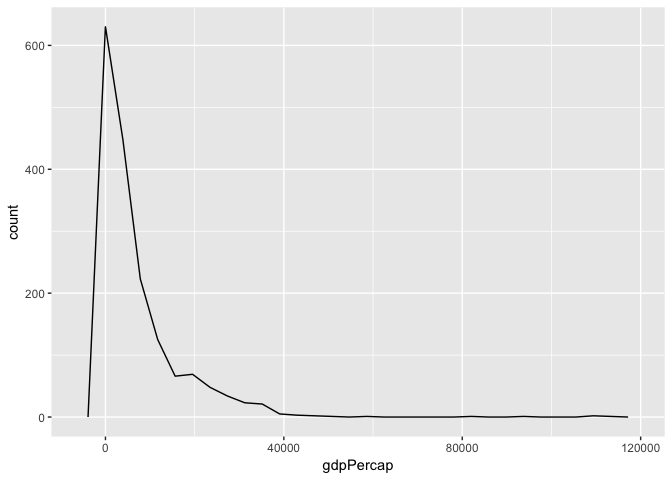
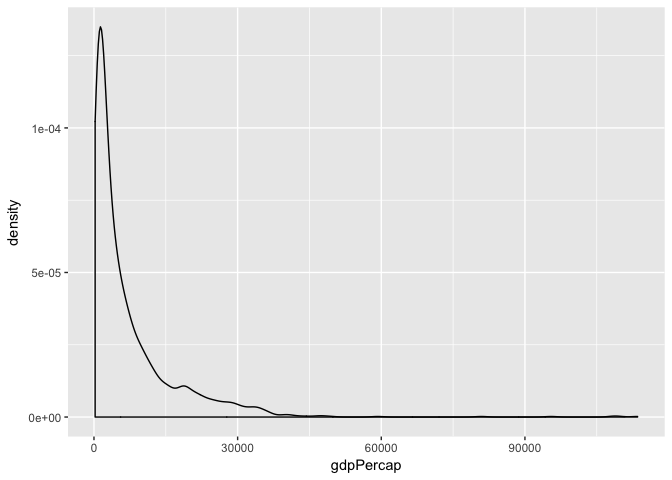
add graph exercises

diff --git a/hw02-gapminder_exploration.md b/hw02-gapminder_exploration.md
@@ -218,7 +218,7 @@ Make a few plots, probably of the same variable you chose to characterize numeri
 
 ``` r
 gapminder %>% 
-  ggplot(aes(lifeExp, gdpPercap)) +
+  ggplot(aes(pop, lifeExp)) +
   geom_point() 
 ```
 
@@ -229,13 +229,44 @@ gapminder %>%
 ``` r
 gapminder %>% 
   ggplot(aes(gdpPercap)) +
-  geom_freqpoly()
+  geom_density()
 ```
-
-    ## `stat_bin()` using `bins = 30`. Pick better value with `binwidth`.
 
 ![](hw02-gapminder_exploration_files/figure-markdown_github/unnamed-chunk-10-1.png)
 
-    A plot of one quantitative variable and one categorical. Maybe boxplots for several continents or countries.
+1.  A plot of one quantitative variable and one categorical. Maybe boxplots for several continents or countries.
+
+``` r
+gapminder %>% 
+  ggplot(aes(continent, lifeExp)) +
+  geom_violin() +
+  geom_jitter(alpha=0.25)
+```
+
+![](hw02-gapminder_exploration_files/figure-markdown_github/unnamed-chunk-11-1.png)
 
 You don’t have to use all the data in every plot! It’s fine to filter down to one country or small handful of countries.
+
+``` r
+gapminder %>% filter(continent == "Asia") %>% 
+  ggplot(aes(country, lifeExp)) +
+  geom_boxplot() +
+  theme(axis.text.x = element_text(angle = 90, hjust = 1))
+```
+
+![](hw02-gapminder_exploration_files/figure-markdown_github/unnamed-chunk-12-1.png)
+
+### Use filter(), select() and %&gt;%
+
+1.  Use filter() to create data subsets that you want to plot. Practice piping together filter() and select(). Possibly even piping into ggplot().
+
+``` r
+gapminder %>% 
+  select(continent, country, lifeExp, year) %>% 
+  filter(year=="1952") %>% 
+  ggplot(aes(continent, lifeExp)) +
+  geom_violin() +
+  geom_jitter()
+```
+
+![](hw02-gapminder_exploration_files/figure-markdown_github/unnamed-chunk-13-1.png)
